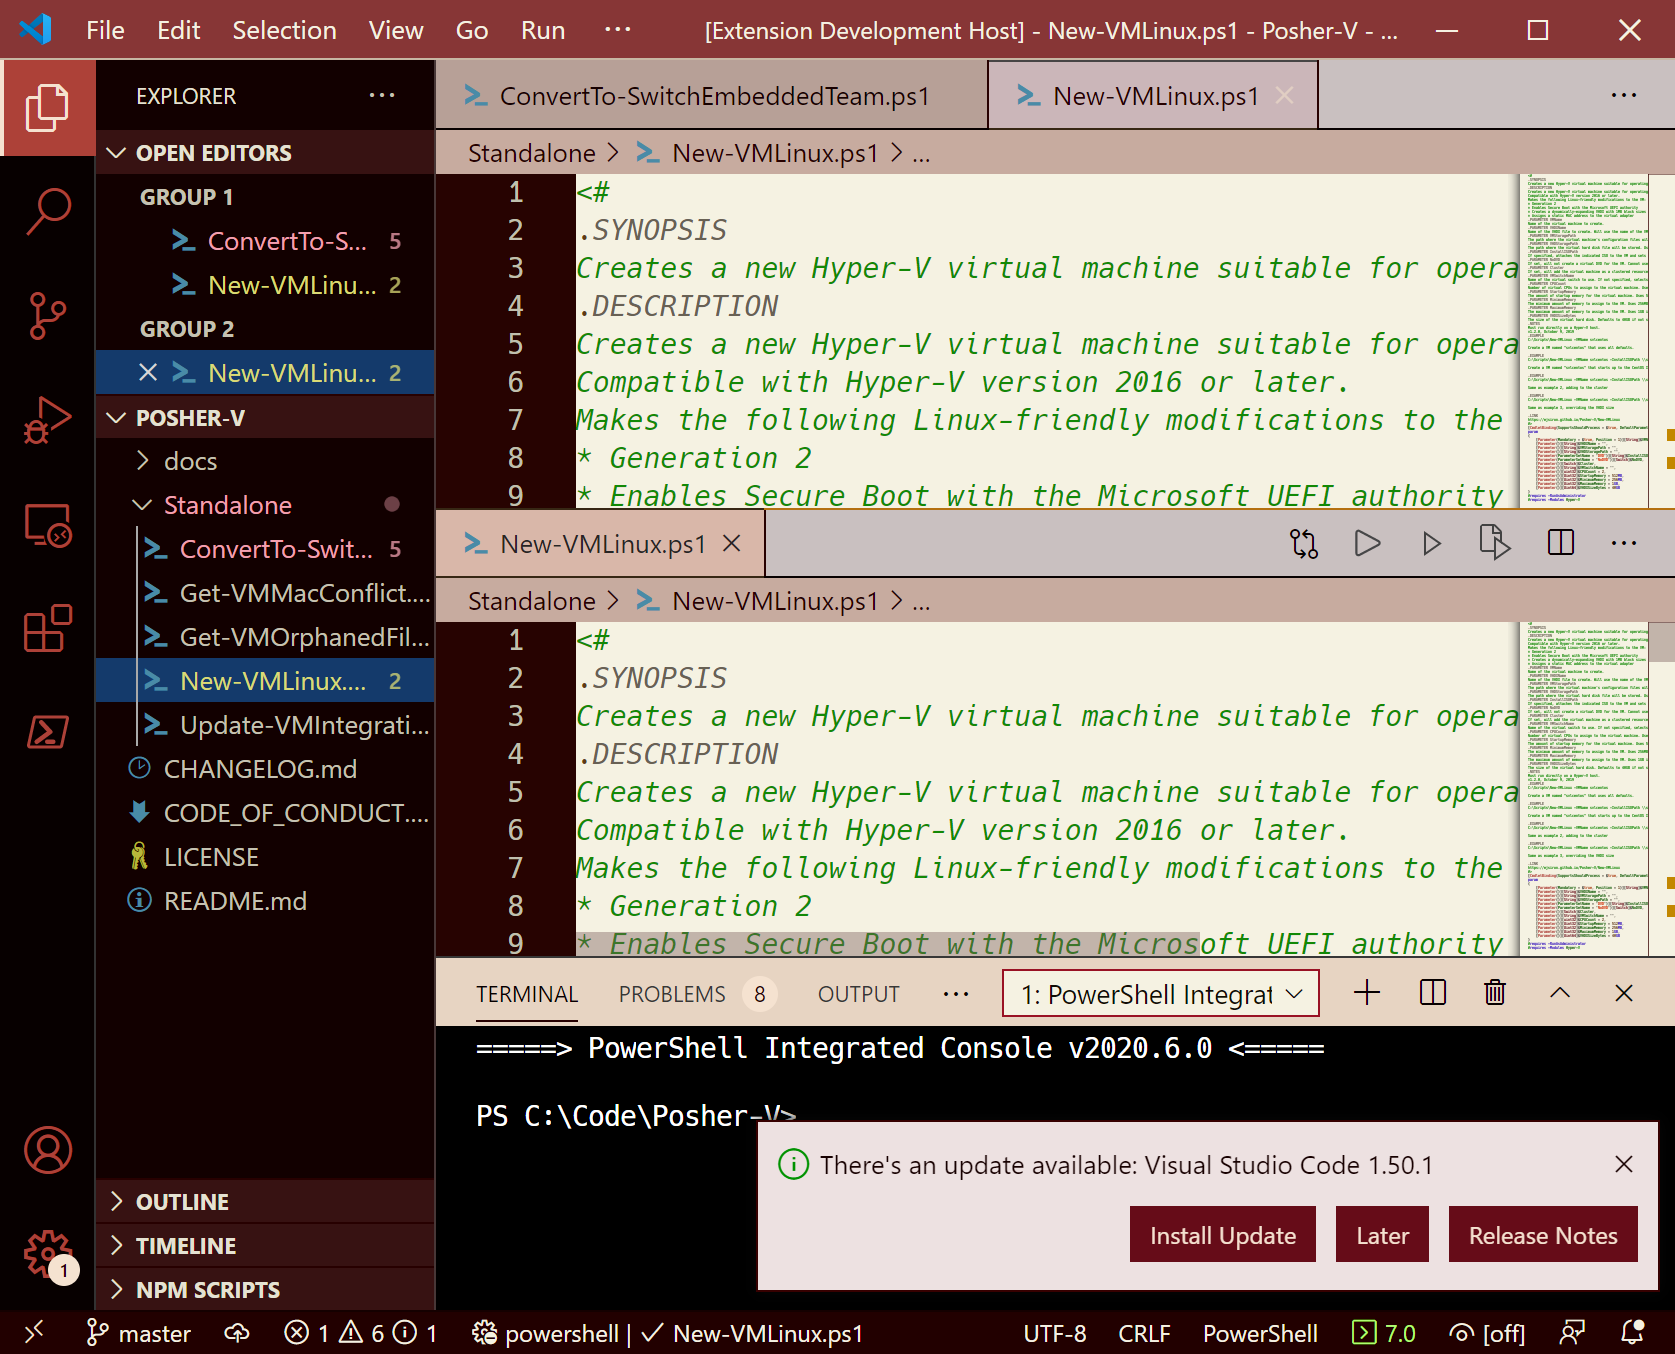
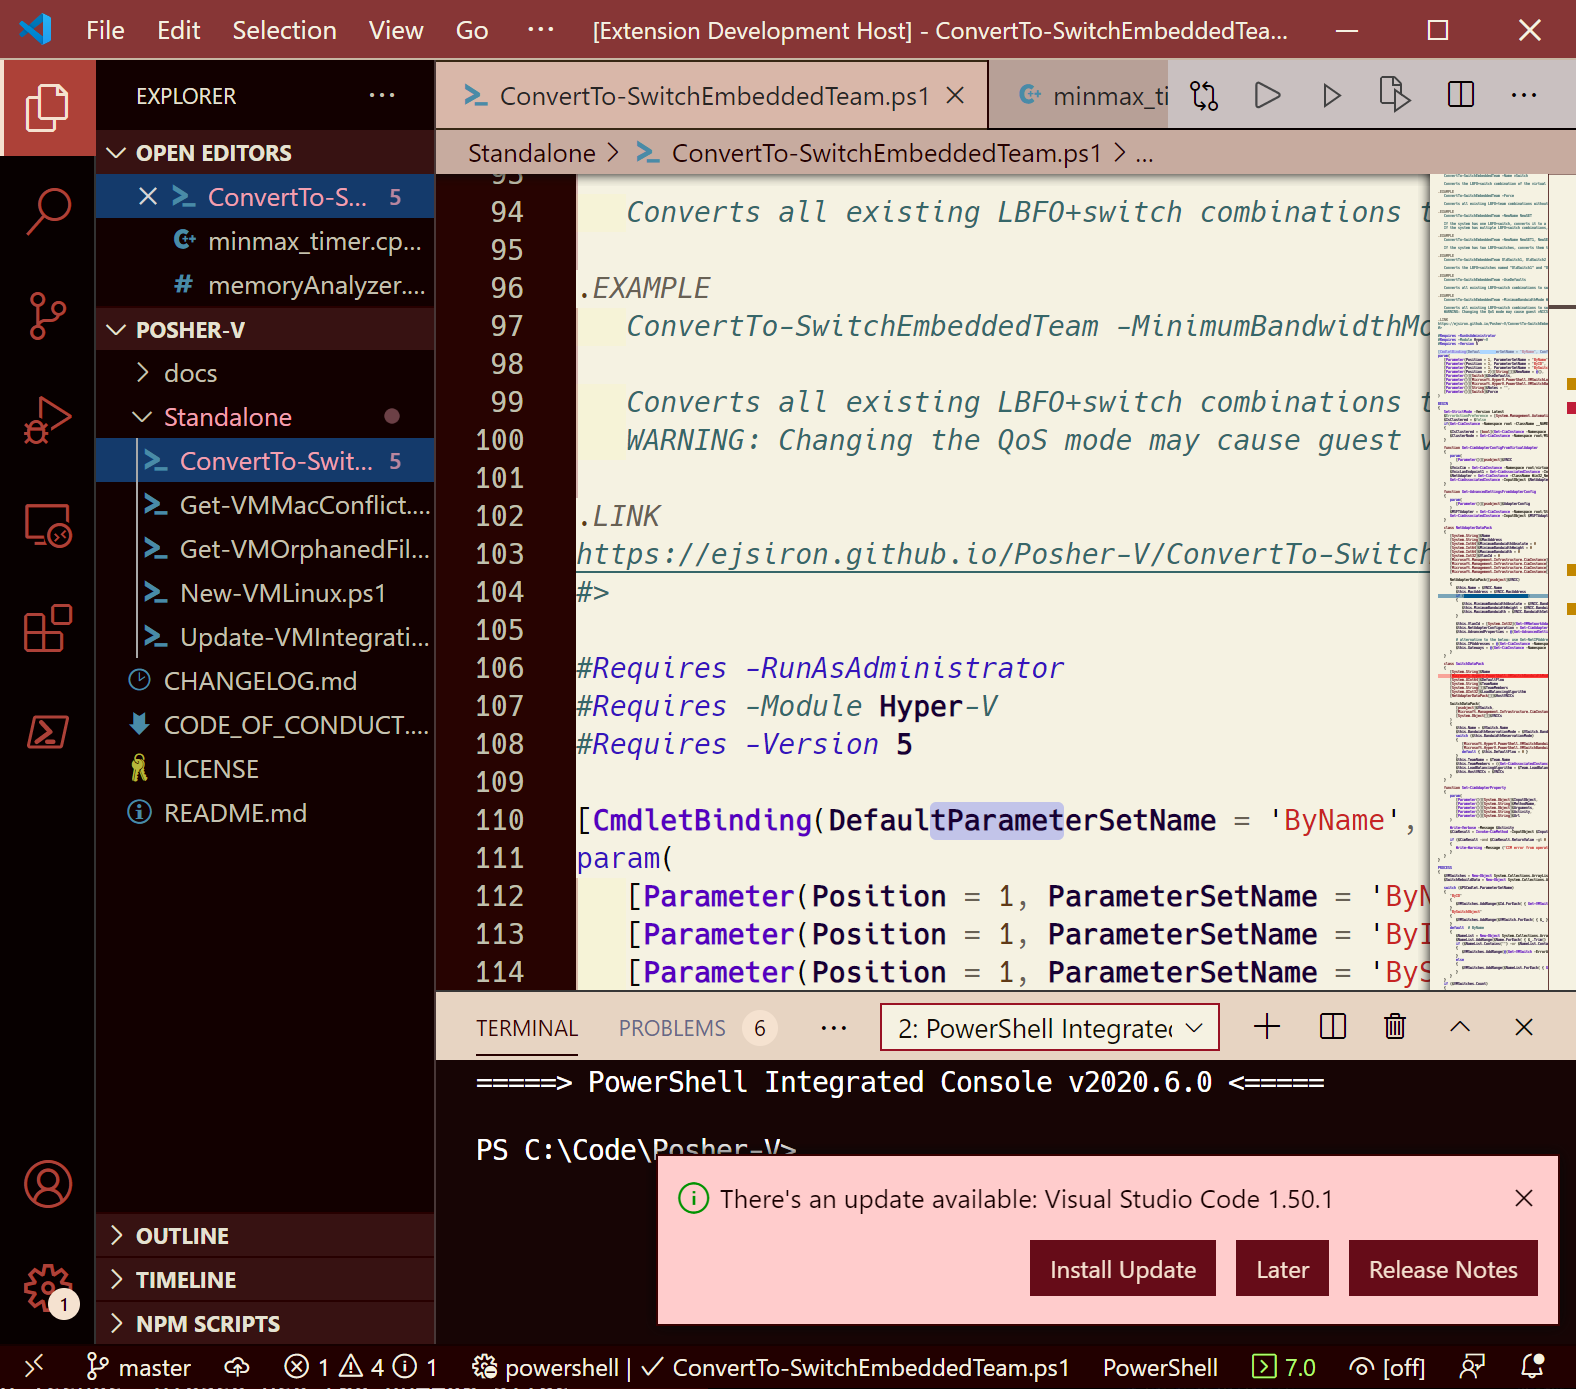
3.0.0

diff --git a/CHANGELOG.md b/CHANGELOG.md
@@ -2,6 +2,21 @@
 
 Change log for the CrimZen color theme.
 
+## 3.0.0 -  November 5th, 2020
+
+- Finally changed colors for code window
+
+## 2.0.2 - November 3rd, 2020 (unreleased)
+
+- Fixed some long-standing problems with text selection
+- Changed Find window again due to conflicts with hover widget
+- Made hover widget text visible
+- Changed background of terminal to near-black
+
+## 2.0.1 - November 2nd, 2020
+
+Minor patch to correct README screenshot URL.
+
 ## 2.0 - November 2nd, 2020
 
 - Updates to colors in widgets like the Find window so that all icons are visible.
